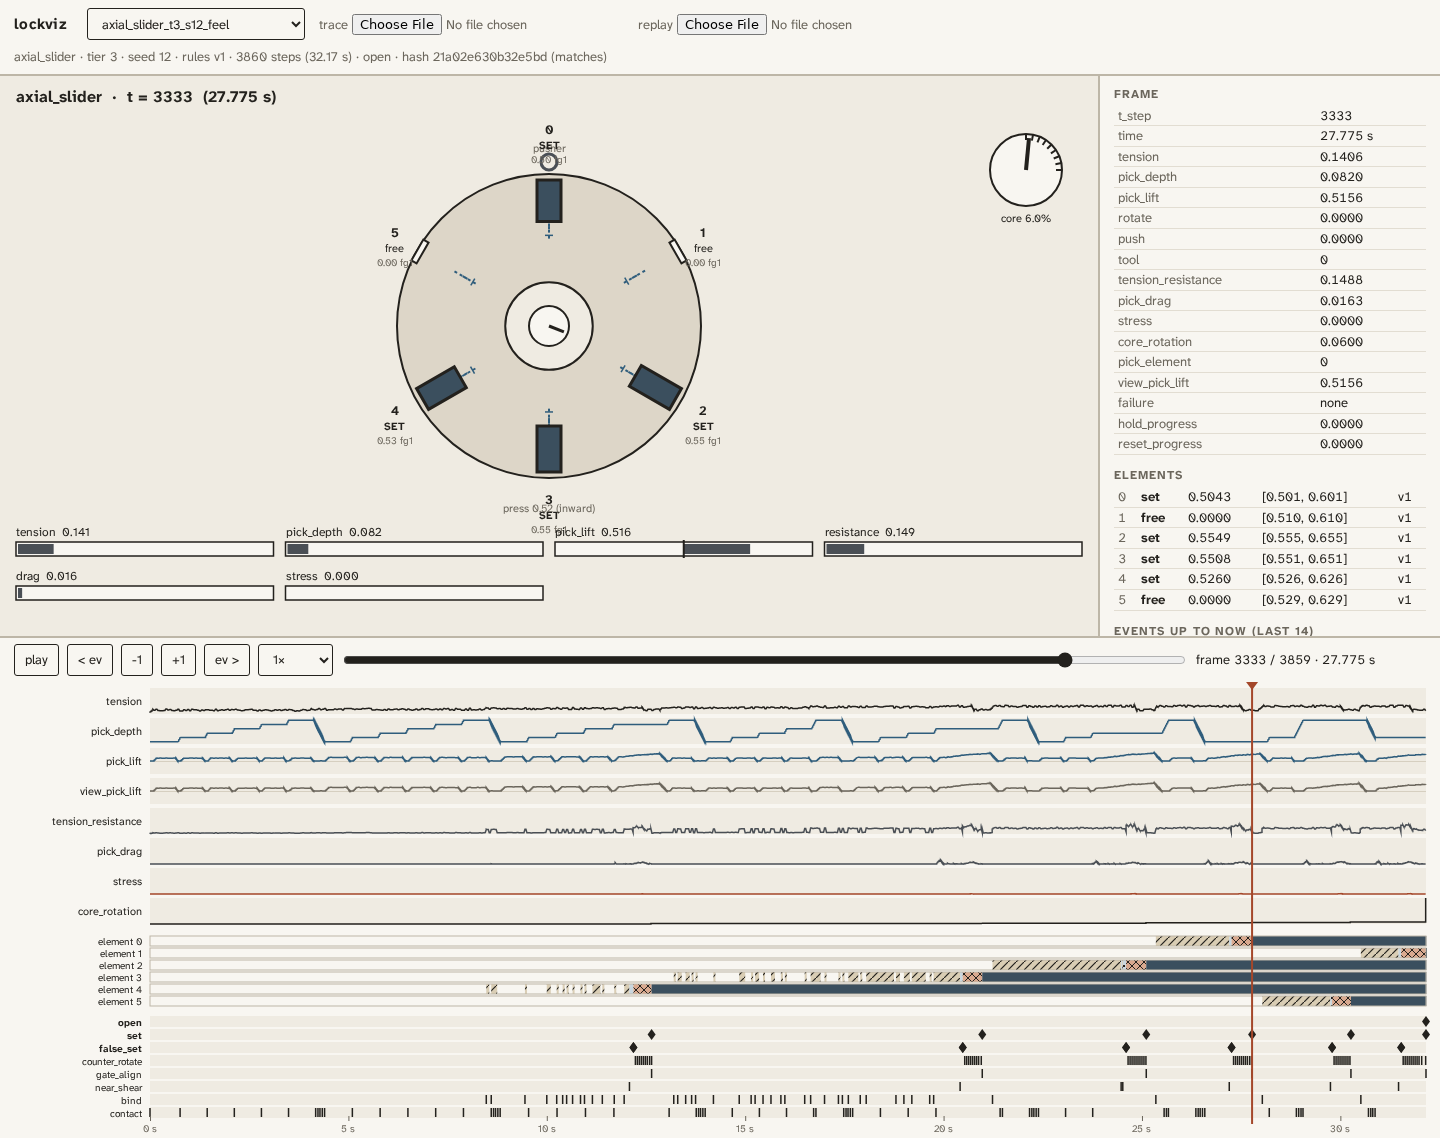
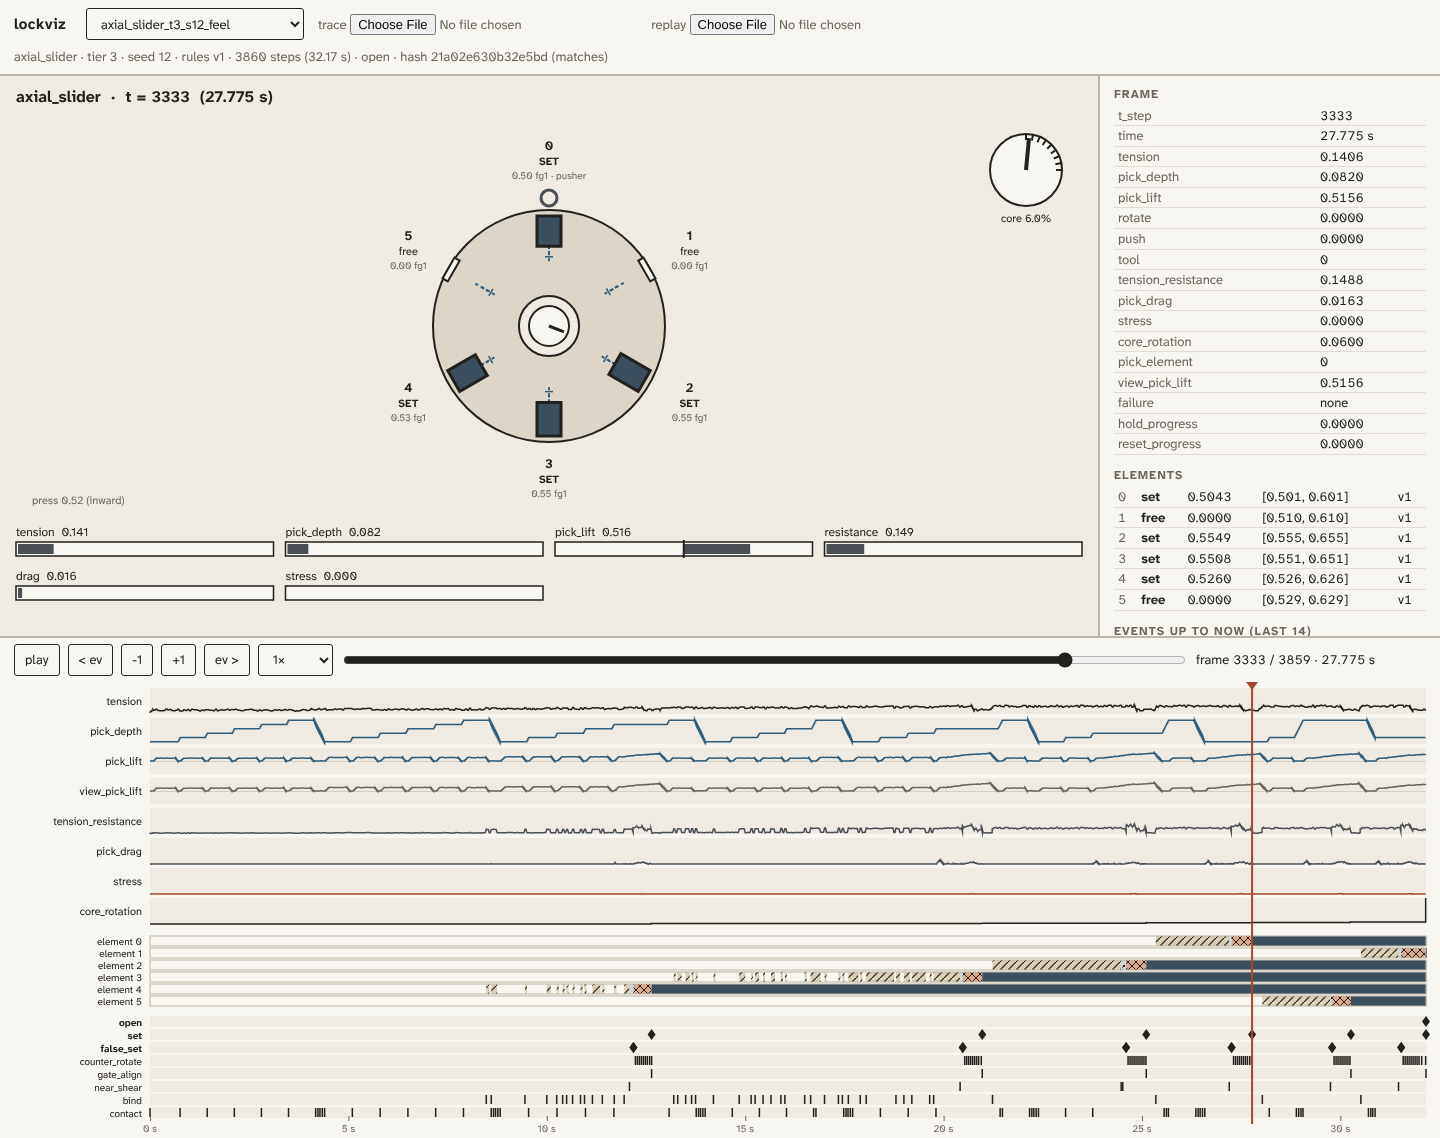
lockviz V03 review: dimple rows in separate bands (side-row labels were inside main-row chambers), axial labels clear of the ring; lockcore README paragraph [skip ci]
Claude-Session: https://claude.ai/code/session_019Hz8MymMLXTKn7rebrh2Zb

diff --git a/mockups/tools/lockviz/families_v06.js b/mockups/tools/lockviz/families_v06.js
@@ -155,14 +155,19 @@ function drawCombo(g, box, f) {
 function drawDimple(g, box, f) {
   const rows = [[], []];
   for (let i = 0; i < T.n; i++) rows[(T.elements[i][2] & 16) ? 1 : 0].push(i);
-  const rowH = (box.h - 90) / 2;
+  // review V03: each row gets its own band (chambers, then the three label lines under them); before,
+  // the side-row labels were drawn inside the main-row chambers
+  const band = (box.h - 20) / 2;
+  let mainBase = box.y + box.h - 60;
   rows.forEach((idxs, row) => {
     if (!idxs.length) return;
     const n = idxs.length;
     const cw = Math.min(90, box.w / (n + 1.5));
     const x0 = box.x + (box.w - cw * n) / 2 + cw * 0.25;
-    const base = box.y + (row === 0 ? box.h - 64 : rowH + 40);
-    const H = rowH * 0.62;
+    const bandTop = box.y + 10 + (row === 1 ? 0 : band);   // side row on top, main row below
+    const base = bandTop + band - 52;
+    const H = (band - 52 - 20) / 1.75;
+    if (row === 0) mainBase = base;
     g.fillStyle = '#ddd6c8'; g.fillRect(x0 - 20, base - H * 1.75 - 20, cw * n + 10, H * 1.75 + 30);
     idxs.forEach((i, k) => {
       const cx = x0 + k * cw, ew = cw * 0.42;
@@ -185,11 +190,11 @@ function drawDimple(g, box, f) {
       const top = base - len - p * H;
       body(g, st, cx + 4, top, ew, len, 'pin');
       if (spool) { g.fillStyle = '#efebe2'; g.fillRect(cx + 4 + ew * 0.3, top + 4, ew * 0.4, len - 8); g.strokeStyle = '#23211d'; g.lineWidth = 1; g.strokeRect(cx + 4 + ew * 0.3, top + 4, ew * 0.4, len - 8); }
-      elementLabel(g, i, st, cx + ew / 2 + 4, base + 44, `${p.toFixed(3)}${spool ? ' tel' : ''}${(variant & 16) ? ' side' : ''}`);
+      elementLabel(g, i, st, cx + ew / 2 + 4, base + 16, `${p.toFixed(3)}${spool ? ' tel' : ''}${(variant & 16) ? ' side' : ''}`);
     });
-    text(g, row === 1 ? 'side row' : 'main row', x0 - 24, base - H * 1.75 - 24, { size: 11, color: '#6b665c', align: 'right' });
+    text(g, row === 1 ? 'side row' : 'main row', x0 - 26, base - H * 1.75 + 2, { size: 11, color: '#6b665c', align: 'right' });
   });
-  drawPick(g, box.x + 40, 90, box.y + box.h - 64, 100, f);
+  drawPick(g, box.x + 40, 90, mainBase, 100, f);
   drawCore(g, box, f, 'plug');
 }
 
@@ -274,7 +279,7 @@ function drawEgyptian(g, box, f) {
 // ---------- axial_slider: front view, radial sliders pressed inward, false notches ----------
 function drawSliders(g, box, f) {
   const n = T.n;
-  const R = Math.min(box.h / 2 - 46, box.w / 6, 170);
+  const R = Math.min(box.h / 2 - 82, box.w / 6, 170);   // review V03: room for the 3 label lines + pusher ring at 12 and 6 o'clock
   const cx = box.x + box.w / 2, cy = box.y + box.h / 2 + 8;
   const maxL = R * 0.62;
   const pe = f[T.col.pick_element];
@@ -318,10 +323,12 @@ function drawSliders(g, box, f) {
     if (i === pe) {
       g.strokeStyle = '#4a4f55'; g.lineWidth = 3;
       g.beginPath(); g.arc(cx + ux * (R + 12), cy + uy * (R + 12), 8, 0, Math.PI * 2); g.stroke();
-      text(g, 'pusher', cx + ux * (R + 26), cy + uy * (R + 26) + 4, { size: 11, color: '#6b665c', align: 'center' });
     }
-    const lx = cx + ux * (R + (i === pe ? 40 : 26)), ly = cy + uy * (R + (i === pe ? 40 : 26));
-    elementLabel(g, i, st, lx, ly, `${p.toFixed(2)}${falseGates ? ' fg' + falseGates : ''}`);
+    // review V03: the 3-line label block (baseline y-11 .. y+31) is centred on a point outside the ring,
+    // so at 12 o'clock it no longer sits on the pusher ring; 'pusher' goes into the label
+    const d = R + (i === pe ? 26 : 12) + 24;
+    const lx = cx + ux * (d + 12 * Math.abs(ux)), ly = cy + uy * d - 10;
+    elementLabel(g, i, st, lx, ly, `${p.toFixed(2)}${falseGates ? ' fg' + falseGates : ''}${i === pe ? ' · pusher' : ''}`);
   }
   // core hub rotates with core_rotation
   const rot = val(f, 'core_rotation');
@@ -329,7 +336,7 @@ function drawSliders(g, box, f) {
   g.beginPath(); g.arc(cx, cy, 20, 0, Math.PI * 2); g.fill(); g.stroke();
   const a = rot * Math.PI * 2;
   g.lineWidth = 3; g.beginPath(); g.moveTo(cx, cy); g.lineTo(cx + Math.cos(a) * 16, cy + Math.sin(a) * 16); g.stroke();
-  text(g, `press ${val(f, 'pick_lift').toFixed(2)} (inward)`, cx, cy + R + 34, { size: 11, color: '#6b665c', align: 'center' });
+  text(g, `press ${val(f, 'pick_lift').toFixed(2)} (inward)`, box.x + 16, box.y + box.h - 12, { size: 11, color: '#6b665c' });
   drawCore(g, box, f, 'core');
 }
 

diff --git a/lockcore/README.md b/lockcore/README.md
@@ -64,6 +64,14 @@ node mockups/tools/lockviz/shot.mjs [trace-name] [frame|end] [out.png]   # Playw
 A new trace name must also be added to `mockups/tools/lockviz/traces/index.json`; any other
 trace/replay can be opened with the file pickers.
 
+The v0.6 families have their own schematics (`families_v06.js`, V03): `dial_safe` (wheel pack +
+fence + dial), `combo` (thumbwheels with the digit at the reading line), `dimple` (two pin rows,
+a telescoping pin as two windows), `disc_detainer` (disc stack + sidebar), `egyptian` (bolt with
+gravity pegs), `axial_slider` (radial sliders, front view), `time_lock` (gear train + `time.tick`
+rhythm), `magnetic` (probe: thumb vs lagging field). Their 16 golden-replay traces are in `traces/`.
+Tests (consistency, geometry, every trace rendered at 0 / mid / end):
+`cd mockups && node --test "tools/lockviz/test/*.test.mjs"`.
+
 Run a single test group: `lockcore/build/lockcore_tests pin:` (substring filter);
 `lockcore/build/lockcore_tests fuzz` runs only the fuzz test (ctest `lockcore_fuzz`; under
 `-DLOCKCORE_SANITIZE=ON` UB is fatal).
